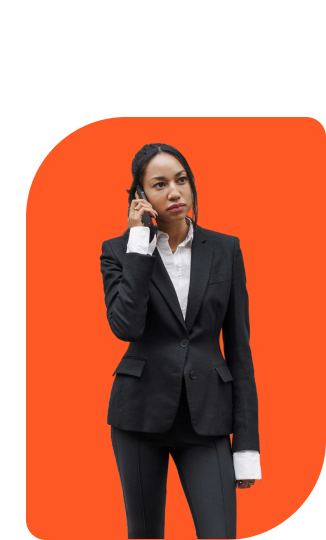
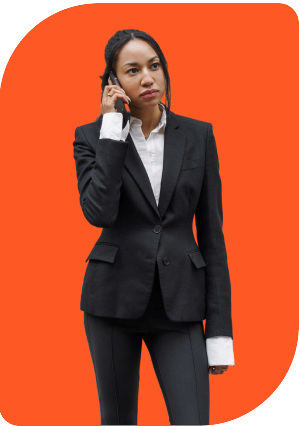
worked on responsiveness

diff --git a/src/Pages/Homepage/Body3.css b/src/Pages/Homepage/Body3.css
@@ -89,11 +89,6 @@ line-height: 54px;
         margin: 0;
          color:grey;
     }
-    img{
-        width: 400px;
-          
-        
-    }
 }
 
 .secondpicture{
@@ -113,10 +108,6 @@ line-height: 54px;
     p{
         margin: 0;
            color:grey;
-    }
-     img{
-        width: 400px;
-        
     }
 }
 
@@ -138,15 +129,11 @@ line-height: 54px;
         margin: 0;
         color:grey;
     }
-
-      img{
-        width: 400px;
-        
-    } 
 }
 
 @media screen and (max-width: 768px) {
     .body3first{
+        overflow-x: hidden;
         height: 1500px;
         /* background-color: gold; */
     }
@@ -190,7 +177,7 @@ line-height: 54px;
 
     .pictureside{
         width: 100%;
-        /* background-color: aqua; */
+        background-color: aqua;
         align-items: center;
         display: flex;
         flex-direction: column;
@@ -202,29 +189,22 @@ line-height: 54px;
         display: flex;
         align-items: center;
         justify-content: right;
-        /* background-color: chocolate; */
+        background-color: chocolate;
 
-        img{
-            /* background-color: blue; */
-            width: 400px;
-        
-        }
     }
 
     .secondpicture{
-        height: 100%;
+        width: 100%;
         display: flex;
         justify-content: start;
-        /* background-color: red; */
-        img{
-            width: 500px;
-        }
+        background-color: red;
+       
     }
 
     .thirdpicture{
         display: flex;
         justify-content: start;
-        height: 100%;
-        /* background-color: rebeccapurple; */
+        width:  100%;
+        background-color: rebeccapurple;
     }
 }

diff --git a/src/Pages/Homepage/Dropdown.css b/src/Pages/Homepage/Dropdown.css
@@ -1,7 +1,6 @@
 
 .dropdownfirst {
   position: relative;
-  /* overflow-x: hidden; */
 }
 
 .dropping {
@@ -18,14 +17,12 @@
   background-color: #6c933a;
   height: 1000px;
   position: absolute;
-  right: -400px;
+  /* right: -400px; */
   width: 350px;
   color: white;
   transition: right 0.3s ease;
   padding-top: 10px;
-  /* display: none; */
-  overflow-x: hidden;
-
+display: none;
   a {
     color: white;
     text-decoration: none;
@@ -57,8 +54,10 @@ border:1px solid white;
   align-items: center;
   width: 350px;
   gap: 20px;
-  background-color: #6c933a;
-  height: 800px;
+  padding-top: 10px;
+  background-color: blue;
+  height: 100vh;
+  /* display: block; */
    /* overflow-x: hidden; */
 }
 
@@ -74,5 +73,15 @@ color: #FE5925;
 .responsiveservices{
     display: flex;
      /* overflow-x: hidden; */
+}
+
+
+@media screen and (max-width:768px) {
+    .slidingmenu {
+    transform: translateX(-100%);
+  }
+  .slidingmenu.open {
+    transform: translateX(0);
+  }
 }
 

diff --git a/src/Pages/Insightpage/Insighthero.css b/src/Pages/Insightpage/Insighthero.css
@@ -26,6 +26,7 @@ border-radius:20px;
 background-color: #FE5925;
 outline: none;
 border: none;
+color: white;
 }
 
 .insightherosecond button:hover{
@@ -90,6 +91,7 @@ gap: 15px;
   font-size: 12px;
   font-weight: 400;
   line-height: 18px;
+  width: fit-content;
 /* background-color: green; */
 
 p{
@@ -100,14 +102,14 @@ p{
 @media screen and (max-width:768px) {
 
  .insightherofirst{
-  height: 3900px;
+  height: 3800px;
   /* background-color: rebeccapurple; */
   display: flex;
   align-items: center;
  } 
 
  .insightherosecond{
-  height: 95%;
+  height: 98%;
   width: 95%;
   /* background-color: yellow; */
   display: flex;
@@ -121,16 +123,17 @@ p{
   display: flex;
   align-items: center;
   justify-content: center;
-  gap: 40px;
+  gap: 0;
  }
 
  .indiblog{
-  /* background-color: #FE5925; */
+  /* background-color: green; */
   width: 95%;
  }
 
  .wordys{
   display: flex;
   gap: 0;
+  /* background-color: red; */
  }
 }

diff --git a/src/Pages/Homepage/Service.jsx b/src/Pages/Homepage/Service.jsx
@@ -21,14 +21,14 @@ const Service = () => {
       </a>
       {isDropdownopens && (
         <div className="dropdowncontents">
-          <a href="">Academic Verification</a>
-          <a href="">Previous Employee Check</a>
+          <a href="/academic">Academic Verification</a>
+          <a href="/previous">Previous Employee Check</a>
           <a href="/guarantor">Guarantors/ ReferenceCheck</a>
-          <a href="">NYSC Verification</a>
-          <a href="">Address Verification</a>
-          <a href="">Credit Check</a>
-          <a href="">Criminal Check</a>
-          <a href="">Request a Quote</a>
+          <a href="/nyscverification">NYSC Verification</a>
+          <a href="/addressverification">Address Verification</a>
+          <a href="/creditcheck">Credit Check</a>
+          <a href="/criminalcheck">Criminal Check</a>
+          <a href="/request">Request a Quote</a>
         </div>
       )}
     </div>

diff --git a/src/Pages/Homepage/Body4.css b/src/Pages/Homepage/Body4.css
@@ -86,27 +86,31 @@ color: white;
 
 @media screen and (max-width: 768px) {
     .body4first{
+        overflow-x: hidden;
         width: 100%;
     }
 
     .body4second{
         width: 100%;
-        height: 375px;
+        height: 275px;
         
     }
 
     .body4third{
         width: 90%;
-      height: 280px;
+      height: 180px;
         display: flex;
         flex-direction: column;
-        gap: 40px;
+        /* gap: 40px; */
 
 
         button{
             width: 25%;
             height: 10%;
             font-size: xx-small;
+            display: flex;
+            align-items: center;
+            justify-content: center;
         }
     }
 
@@ -123,6 +127,8 @@ color: white;
         p{font-size: xx-small;
             /* background-color: silver; */
         width: 100%;
+        line-height: 13px;
+        height: fit-content;
         }
     }
 

diff --git a/src/Pages/Homepage/Body5.css b/src/Pages/Homepage/Body5.css
@@ -107,6 +107,8 @@ cursor: pointer;
 .wrd2 {
   display: flex;
   flex-direction: column;
+  /* background-color: gold; */
+  width: fit-content;
 
   p {
     margin: 0;
@@ -116,6 +118,8 @@ cursor: pointer;
     line-height: 21px;
     text-align: left;
     color: #fe5925;
+    /* background-color: red; */
+    width: fit-content;
   }
 
   a{
@@ -130,6 +134,7 @@ cursor: pointer;
     font-weight: 500;
     line-height: 30px;
     text-align: left;
+     /* background-color: red; */
   }
 }
 
@@ -137,6 +142,7 @@ cursor: pointer;
 @media screen and (max-width:768px) {
 
     .body5first{
+      overflow-x: hidden;
         height: 1700px;
     }
 

diff --git a/src/Pages/AboutUs/Aboutbody3.css b/src/Pages/AboutUs/Aboutbody3.css
@@ -51,6 +51,7 @@
     line-height: 36px;
   }
 
+
   p {
     font-family: Poppins;
     font-size: 14px;
@@ -64,7 +65,7 @@
   .aboutbody3first {
     /* background-color: red; */
     margin-top: 90px;
-    height: 900px;
+    height: 970px;
     display: flex;
     justify-content: center;
   }
@@ -104,12 +105,12 @@
     display: flex;
     align-items: center;
     justify-content: center;
-    width: 100%;
+    width: 90%;
     /* background-color: #fe5925; */
   }
 
   .imagepart img{
     /* background-color: yellow; */
-   width: 75%;
+   width: 100%;
   }
 }

diff --git a/src/Pages/AboutUs/Aboutbody1.css b/src/Pages/AboutUs/Aboutbody1.css
@@ -43,7 +43,7 @@ line-height: 24px;
 @media screen and (max-width: 768px) {
 
     .aboutbodyfirst{
-height: 1100px;
+height: 1000px;
 display: flex;
 align-items: center;
     }
@@ -71,12 +71,11 @@ align-items: center;
         width: 90%;
         /* background-color: green; */
         display: flex;
-        justify-content: center;
+
 
         img{
-            /* background-color: yellow; */
             width: 100%;
+            /* background-color: green; */
         }
-        
     }
 }

diff --git a/src/Pages/Homepage/Hero.css b/src/Pages/Homepage/Hero.css
@@ -58,6 +58,7 @@ outline: none;
 @media screen and (max-width: 768px) {
 
     .herofirst{
+        overflow-x: hidden;
         height: 500px;
     }
     .heropic{
@@ -72,7 +73,9 @@ outline: none;
         align-items: center;
 
         h1{
+            width: 70%;
             text-align: center;
+            font-size: medium;
         }
     }
 }

diff --git a/src/Pages/Homepage/Hero.jsx b/src/Pages/Homepage/Hero.jsx
@@ -9,7 +9,7 @@ const Hero = () => {
       <div className="herosecond">
         <div className="herowords">
           <h1>
-            The Most Dependable Background Check <br /> Company <br />
+            The Most Dependable Background Check Company <br />
             In Nigeria.
           </h1>
           <button>free consultation</button>

diff --git a/src/Pages/Homepage/Homepage.jsx b/src/Pages/Homepage/Homepage.jsx
@@ -17,7 +17,7 @@ const Homepage = () => {
             <SERVICES />
             <a href="/request">REQUEST A QUOTE</a>
             <a href="/insight">INSIGHT</a>
-            <a href="">JOB PORTAL</a>
+            <a href="/">JOB PORTAL</a>
           </nav>
 
           <button className="butty">

diff --git a/src/Pages/Insightpage/Insighthero.jsx b/src/Pages/Insightpage/Insighthero.jsx
@@ -70,7 +70,7 @@ const Insighthero = () => {
             </div>
           </div>
           <div className="indiblog">
-            <img src={blg1} alt="" />
+            <img src={blg3} alt="" />
             <div className="wordys">
               <a href="">
                 <h6>
